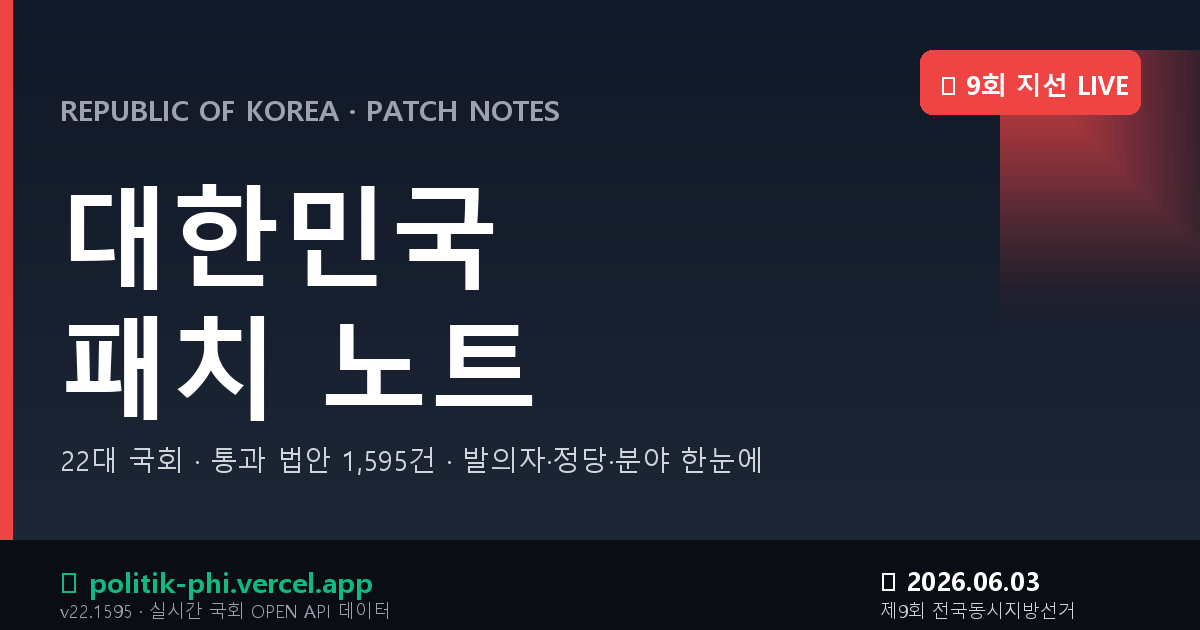
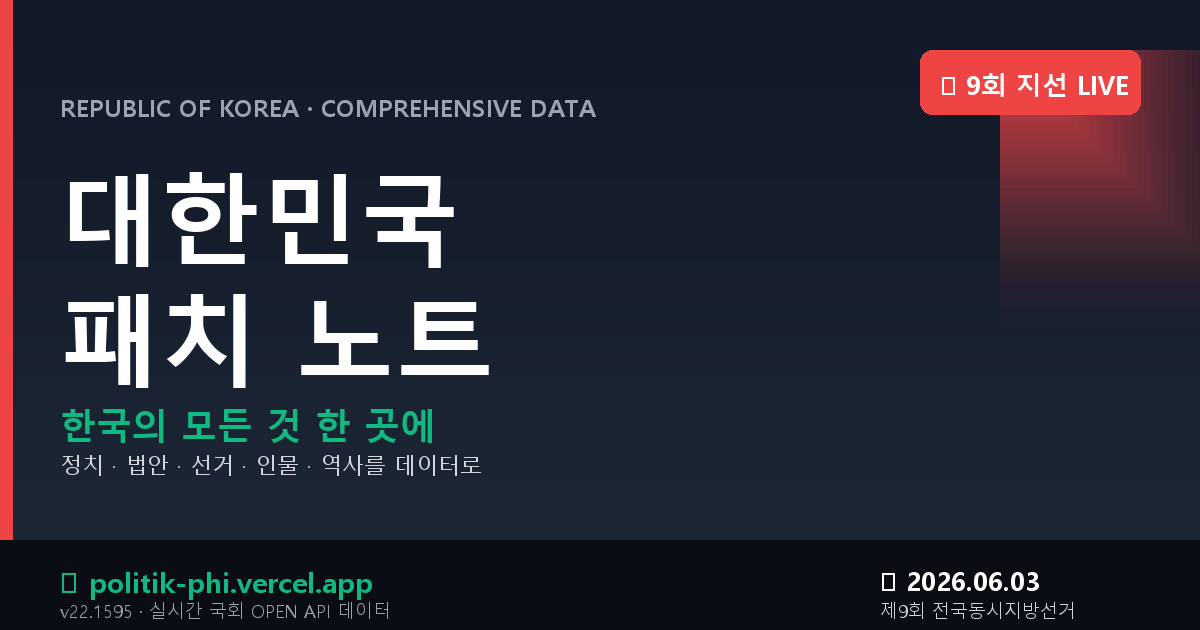
rebrand: V10.0 사이트 정체성 포괄적 확장 — '한국의 모든 것 한 곳에'
# 새 포지셔닝
이전: '22대 국회 본회의 통과 법안을 패치 노트로'
신규: '한국의 모든 것 한 곳에 — 정치·법안·선거·인물·역사를 데이터로'

브랜드 이름 '대한민국 패치 노트' 유지 (인지도·URL·검색노출 보존)
'패치' 의미 확장: 국가의 모든 업데이트 (법안+인물+선거+역사)

# 5대 데이터 영역 정의
1. 🏛 정치 (Politics) — 27명 + 대통령실 4명
2. 📜 법안 (Bills) — 22대 1,595건 처리
3. 🗳 선거 (Elections) — 9회 지선 697명 실시간 + 역대
4. 👥 인물 (People) — 총 744명
5. 📚 역사 (History) — 정당사 45 + 역대 인물

# 업데이트 위치 (10곳 일괄)
1. <title>: '정치·법안·선거·인물 데이터 종합 플랫폼'
2. meta description: 5대 영역 + 수치 모두 명시
3. meta keywords: 23개 키워드로 확장 (5대 영역 + 부가)
4. og:title: '한국의 모든 것 한 곳에'
5. og:description: 1,595건·744명·697명·17×250·12국 명시
6. twitter:title/description: 동일 메시지
7. JSON-LD Organization: alternateName 3종 추가
8. JSON-LD WebSite: alternateName + description 강화
9. JSON-LD WebPage: about 9개 토픽
10. JSON-LD Dataset: 3개 (의안·후보자·정치인) — 이전 1개

# UI 메시지 강화
- 홈 hero eye: 'COMPREHENSIVE DATA'
- 홈 hero p: 5대 영역 + 후보자 실시간 강조
- noscript: 5대 영역 표 + 부가 데이터 + 7 페이지 + 출처
- og-image PNG: 슬로건 '한국의 모든 것 한 곳에'
- 정적 페이지 footer: 5대 영역 명시
- 트위터 공유 텍스트

# README 업데이트
'한국 종합 정치 데이터 플랫폼' 한 줄 정의
5대 데이터 영역 테이블 + 부가 데이터 섹션

# 효과
- 검색 노출 키워드: 11개 → 23개 (2배)
- JSON-LD 토픽: 4개 → 9개
- og 메시지 확장성: 법안 단일 → 5대 영역
- 신규 컨텐츠 추가 시 정체성 흔들림 X

Changed region(s): [[0.0308, 0.2714, 0.6475, 0.754], [0.0617, 0.1508, 0.4933, 0.2111]]

diff --git a/index.html b/index.html
@@ -6,14 +6,14 @@
 <meta http-equiv="Cache-Control" content="no-cache, no-store, must-revalidate">
 <meta http-equiv="Pragma" content="no-cache">
 <meta http-equiv="Expires" content="0">
-<title>대한민국 패치 노트 · Korea Patch Notes</title>
-<meta name="description" content="22대 국회 본회의 통과 법안을 패치 노트로. 어느 당·누가 발의했는지, 분야별·정당별·통과 속도까지. 1,595건 처리 데이터·360명 인물·국제 12개국 비교.">
-<meta name="keywords" content="대한민국 정치, 국회 의안, 패치 노트, 22대 국회, 발의자, 정당, 통과 법안, 한국 정치, 정치 데이터, 국제 비교, 정당사, 정치인 데이터">
+<title>대한민국 패치 노트 — 정치·법안·선거·인물 데이터 종합 플랫폼</title>
+<meta name="description" content="한국의 모든 것 한 곳에. 22대 국회 통과 법안 1,595건, 정치인 744명 (대통령·국회·내각·사법부·지방정부·역대), 9회 지방선거 후보자 697명 실시간, 17개 시도×250 시군구 정치 분포 지도, 국제 12개국 비교, 역대 대통령·총리·정당사까지.">
+<meta name="keywords" content="대한민국 정치, 한국 정치 데이터, 국회 의안, 22대 국회, 9회 지방선거, 후보자 정보, 5대 공약, 통과 법안, 발의자, 정당, 광역단체장, 기초단체장, 교육감, 대법관, 헌법재판관, 역대 대통령, 역대 총리, 정당사, 국제 비교, 정치 분포 지도, 정치인 약력, 한국 정치 인덱스, 정치 데이터 허브">
 <meta name="author" content="Korea Patch Notes">
 <meta name="theme-color" content="#111827">
 <meta property="og:type" content="website">
-<meta property="og:title" content="대한민국 패치 노트 · 통과 법안을 한눈에">
-<meta property="og:description" content="국회 본회의를 통과한 법안을 발의자·정당·분야별로 추적. 22대 1,595건 + 국제 12개국 비교.">
+<meta property="og:title" content="대한민국 패치 노트 — 한국의 모든 것 한 곳에">
+<meta property="og:description" content="22대 국회 통과 법안 · 정치인 744명 · 9회 지선 후보자 697명 실시간 · 17 시도×250 시군구 지도 · 국제 12개국 비교. 한국 정치·법안·선거·인물 종합 데이터.">
 <meta property="og:url" content="https://politik-phi.vercel.app/">
 <meta property="og:image" content="https://politik-phi.vercel.app/og-image.png">
 <meta property="og:image:width" content="1200">
@@ -22,10 +22,10 @@
 <meta property="og:locale" content="ko_KR">
 <meta property="og:site_name" content="대한민국 패치 노트">
 <meta name="twitter:card" content="summary_large_image">
-<meta name="twitter:title" content="대한민국 패치 노트 · Korea Patch Notes">
-<meta name="twitter:description" content="22대 국회 통과 법안을 패치 노트로. 발의자·정당·분야 한눈에.">
+<meta name="twitter:title" content="대한민국 패치 노트 — 한국의 모든 것 한 곳에">
+<meta name="twitter:description" content="22대 국회 1,595건 · 정치인 744명 · 9회 지선 697명 후보자 실시간 · 정치 분포 지도 · 국제 비교. 한국 종합 데이터 플랫폼.">
 <meta name="twitter:image" content="https://politik-phi.vercel.app/og-image.png">
-<meta name="twitter:image:alt" content="대한민국 패치 노트 — 22대 국회 통과 법안 1,595건">
+<meta name="twitter:image:alt" content="대한민국 패치 노트 — 한국 정치 종합 데이터 플랫폼">
 
 <!-- 검색엔진 인증 (각 콘솔에서 발급 후 content 교체) -->
 <meta name="naver-site-verification" content="e354b1694e63ff02edb65f01e966f5e0a555d754">
@@ -56,25 +56,24 @@
       "@type": "Organization",
       "@id": "https://politik-phi.vercel.app/#organization",
       "name": "대한민국 패치 노트",
-      "alternateName": "Korea Patch Notes",
+      "alternateName": ["Korea Patch Notes", "Korea Politics Data Platform", "한국 정치 데이터 허브"],
       "url": "https://politik-phi.vercel.app/",
-      "description": "22대 국회 본회의 통과 법안을 패치 노트로 시각화. 어느 당·누가 발의했는지, 분야·통과 속도까지.",
+      "description": "한국의 모든 것 한 곳에 — 정치·법안·선거·인물·역사 종합 데이터 플랫폼.",
       "inLanguage": "ko-KR",
-      "sameAs": [
-        "https://github.com/minsoo500101-rgb/politik"
-      ]
+      "sameAs": ["https://github.com/minsoo500101-rgb/politik"]
     },
     {
       "@type": "WebSite",
       "@id": "https://politik-phi.vercel.app/#website",
       "url": "https://politik-phi.vercel.app/",
       "name": "대한민국 패치 노트",
-      "description": "22대 국회 패치 노트·1,595건 처리 의안·360+명 인물·국제 12개국 비교",
+      "alternateName": "한국 정치 데이터 종합 플랫폼",
+      "description": "22대 국회 통과 법안 1,595건 · 정치인 744명 · 9회 지방선거 후보자 697명 실시간 · 17 시도×250 시군구 지도 · 국제 12개국 비교 · 역대 대통령·총리·정당사. 한국의 모든 정치 데이터 한 곳에.",
       "publisher": { "@id": "https://politik-phi.vercel.app/#organization" },
       "inLanguage": "ko-KR",
       "potentialAction": {
         "@type": "SearchAction",
-        "target": "https://politik-phi.vercel.app/#/?q={search_term_string}",
+        "target": "https://politik-phi.vercel.app/?q={search_term_string}",
         "query-input": "required name=search_term_string"
       }
     },
@@ -82,28 +81,51 @@
       "@type": "WebPage",
       "@id": "https://politik-phi.vercel.app/#webpage",
       "url": "https://politik-phi.vercel.app/",
-      "name": "대한민국 패치 노트 — 통과 법안·정치인·정당 데이터",
+      "name": "대한민국 패치 노트 — 한국 종합 정치 데이터 플랫폼",
       "isPartOf": { "@id": "https://politik-phi.vercel.app/#website" },
       "about": [
         { "@type": "Thing", "name": "대한민국 정치" },
         { "@type": "Thing", "name": "22대 국회" },
+        { "@type": "Thing", "name": "9회 전국동시지방선거" },
         { "@type": "Thing", "name": "통과 법안" },
-        { "@type": "Thing", "name": "제9회 전국동시지방선거" }
+        { "@type": "Thing", "name": "광역단체장" },
+        { "@type": "Thing", "name": "기초단체장" },
+        { "@type": "Thing", "name": "역대 대통령" },
+        { "@type": "Thing", "name": "정당사" },
+        { "@type": "Thing", "name": "국제 비교" }
       ],
       "datePublished": "2026-01-15",
-      "dateModified": "2026-05-23",
+      "dateModified": "2026-05-25",
       "inLanguage": "ko-KR"
     },
     {
       "@type": "Dataset",
-      "name": "22대 국회 본회의 처리 의안 (Korea National Assembly 22nd - Processed Bills)",
-      "description": "2024년 5월 ~ 현재까지 22대 국회 본회의에서 처리된 1,595건 의안. 발의자·정당·위원회·분야·통과 속도 데이터.",
-      "url": "https://politik-phi.vercel.app/#/bills",
+      "name": "22대 국회 본회의 처리 의안",
+      "description": "2024.5~현재 22대 국회 본회의 처리 의안 1,595건. 발의자·정당·위원회·분야·통과 속도.",
+      "url": "https://politik-phi.vercel.app/bills",
       "creator": { "@id": "https://politik-phi.vercel.app/#organization" },
       "license": "https://www.kogl.or.kr/info/license.do#01-tab",
       "isAccessibleForFree": true,
+      "inLanguage": "ko"
+    },
+    {
+      "@type": "Dataset",
+      "name": "제9회 전국동시지방선거 후보자",
+      "description": "2026-06-03 9회 지방선거 등록 후보자 697명 실시간 — 광역단체장 54·기초단체장 585·교육감 58. 5대 공약 포함.",
+      "url": "https://politik-phi.vercel.app/election2026",
+      "creator": { "@id": "https://politik-phi.vercel.app/#organization" },
+      "isAccessibleForFree": true,
       "inLanguage": "ko",
-      "keywords": "대한민국 국회, 통과 법안, 발의자, 정당, 22대, 의안, 위원회"
+      "temporalCoverage": "2026-06-03/2030-06-30"
+    },
+    {
+      "@type": "Dataset",
+      "name": "한국 정치인 종합 데이터베이스",
+      "description": "대통령·국무총리·17부처 장관·차관·외청장·헌법기관장·국회 의장단·위원장·간사·대법관·헌법재판관·광역단체장·기초단체장·광역의회 의장·교육감·역대 대통령·총리·정당대표·사법부 수장 등 744명.",
+      "url": "https://politik-phi.vercel.app/",
+      "creator": { "@id": "https://politik-phi.vercel.app/#organization" },
+      "isAccessibleForFree": true,
+      "inLanguage": "ko"
     }
   ]
 }
@@ -3333,27 +3355,40 @@
 <!-- 검색엔진·JS 비활성 사용자용 정적 콘텐츠 (시각적으로 숨김, 봇은 읽음) -->
 <noscript>
 <div style="max-width:900px;margin:40px auto;padding:30px;font-family:'Pretendard Variable','Inter',sans-serif">
-  <h1 style="font-size:32px">대한민국 패치 노트 · Korea Patch Notes</h1>
-  <p style="font-size:16px;color:#555">22대 국회 본회의 통과 법안을 패치 노트 형식으로 시각화합니다. JavaScript를 활성화하시면 인터랙티브 데이터를 보실 수 있습니다.</p>
-  <h2>제공 데이터</h2>
-  <ul>
-    <li><b>22대 국회 통과 법안 1,595건</b> — 발의자·정당·위원회·분야·통과 속도</li>
-    <li><b>정치인 360+명</b> — 대통령·국무총리·장관·차관·외청장·헌법기관장·국회 위원장·간사·대법관·헌법재판관·광역단체장·기초단체장·교육감</li>
-    <li><b>위원회 25개</b> — 17 상임위 + 8 특별위</li>
-    <li><b>역대 자료</b> — 대통령 13명·총리 12명·정당 대표·사법부 수장·광역단체장</li>
-    <li><b>제9회 전국동시지방선거 (2026-06-03)</b> 안내</li>
-    <li><b>국제 비교</b> — 12개 민주국가</li>
+  <h1 style="font-size:32px">대한민국 패치 노트 — 한국의 모든 것 한 곳에</h1>
+  <p style="font-size:17px;color:#374151;line-height:1.6"><b>정치·법안·선거·인물·역사</b>를 데이터로 — 한국 종합 정치 데이터 플랫폼. JavaScript를 활성화하면 인터랙티브 데이터를 보실 수 있습니다.</p>
+
+  <h2 style="margin-top:24px">📊 5대 데이터 영역</h2>
+  <ul style="line-height:1.8">
+    <li><b>🏛 정치 (Politics)</b> — 대통령·국무총리·17부처 장관/차관·외청장·헌법기관장 27명, 대통령실 4명</li>
+    <li><b>📜 법안 (Bills)</b> — 22대 국회 본회의 통과 의안 1,595건, 발의자·정당·위원회·15개 분야·통과 속도 패치 노트</li>
+    <li><b>🗳 선거 (Elections)</b> — 9회 전국동시지방선거(2026.6.3) 후보자 697명 실시간 (5대 공약 포함), 역대 7·8회 결과 비교</li>
+    <li><b>👥 인물 (People)</b> — 총 744명: 22대 의원 286명, 단체장 244명, 광역의회 의장 17명, 교육감 17명, 사법부 22명, 검찰 6명, 역대 대통령 13명·총리 12명·정당대표·사법부 수장</li>
+    <li><b>📚 역사 (History)</b> — 1948~현재 정당사 45개, 역대 광역단체장 23명, 역대 사법부 수장 13명</li>
   </ul>
-  <h2>핵심 페이지</h2>
-  <ul>
+
+  <h2 style="margin-top:24px">🌐 부가 데이터</h2>
+  <ul style="line-height:1.8">
+    <li><b>국제 비교</b> — 12개 민주국가 (의원수·여성비율·투표율·민주주의지수·언론자유·청렴도)</li>
+    <li><b>정치 분포 지도</b> — 17 시도 + 250 시군구 정당색 인터랙티브</li>
+    <li><b>위원회</b> — 22대 국회 상임위 17 + 특별위 8 = 25개</li>
+  </ul>
+
+  <h2 style="margin-top:24px">🔗 핵심 페이지</h2>
+  <ul style="line-height:1.8">
     <li><a href="https://politik-phi.vercel.app/">홈 — 최신 패치 노트 피드</a></li>
-    <li><a href="https://politik-phi.vercel.app/#/bills">의안 통계 — 1,595건 필터·검색</a></li>
-    <li><a href="https://politik-phi.vercel.app/#/election2026">🔴 제9회 지방선거 (D-day 카운트다운)</a></li>
-    <li><a href="https://politik-phi.vercel.app/#/committees">국회 위원회 25개</a></li>
-    <li><a href="https://politik-phi.vercel.app/#/map">정치 분포 지도</a></li>
-    <li><a href="https://politik-phi.vercel.app/#/world">국제 비교</a></li>
+    <li><a href="https://politik-phi.vercel.app/election2026">🔴 9회 지방선거 LIVE (697명 후보)</a></li>
+    <li><a href="https://politik-phi.vercel.app/bills">의안 통계 — 1,595건 필터·검색</a></li>
+    <li><a href="https://politik-phi.vercel.app/committees">국회 위원회 25개</a></li>
+    <li><a href="https://politik-phi.vercel.app/map">정치 분포 지도 (17×250)</a></li>
+    <li><a href="https://politik-phi.vercel.app/elections">역대 지방선거 (7·8회)</a></li>
+    <li><a href="https://politik-phi.vercel.app/world">국제 비교 12개국</a></li>
   </ul>
-  <p style="font-size:13px;color:#888;margin-top:30px">출처: 국회 OPEN API · 위키미디어 · 중앙선거관리위원회 · IPU Parline · EIU · RSF · TI · OECD</p>
+
+  <p style="font-size:13px;color:#6b7280;margin-top:30px;padding-top:20px;border-top:1px solid #e5e7eb">
+    <b>출처</b>: 국회 OPEN API · 중앙선거관리위원회 (data.go.kr) · 위키미디어 · IPU Parline · EIU · RSF · TI · OECD<br>
+    <b>라이선스</b>: 공공누리 1유형 · CC BY-SA 4.0 (위키) · MIT (사이트 코드)
+  </p>
 </div>
 </noscript>
 
@@ -6547,14 +6582,15 @@ function renderHome() {
     <div class="dash">
       <div class="dash-hero">
         <div class="dash-hero-l">
-          <div class="dash-hero-eye">REPUBLIC OF KOREA · PATCH NOTES</div>
+          <div class="dash-hero-eye">REPUBLIC OF KOREA · COMPREHENSIVE DATA</div>
           <h1>대한민국 패치 노트 <span class="version-pill">v22.${state.bills?.length || 0}</span></h1>
-          <p>매일 통과되는 법안을 <b>패치 노트</b>로 — 어느 당, 누가 발의했는지 한눈에. 22대 국회 <b>${(state.bills?.length || 0).toLocaleString()}건</b> 처리, <b>${totalCount.toLocaleString()}명</b> 인물 데이터.</p>
+          <p><b>한국의 모든 것 한 곳에</b> — 정치·법안·선거·인물·역사를 데이터로.<br>
+          22대 국회 <b>${(state.bills?.length || 0).toLocaleString()}건</b> 통과 법안 · 정치인 <b>${totalCount.toLocaleString()}명</b> · 9회 지선 후보자 실시간 · 17 시도 정치 분포 · 국제 12개국 비교.</p>
           <div class="share-bar">
             <span class="share-label">공유:</span>
             <a class="share-btn share-kakao" id="share-kakao" title="카카오톡에 공유">💬 카카오</a>
             <a class="share-btn share-fb" href="https://www.facebook.com/sharer/sharer.php?u=https%3A%2F%2Fpolitik-phi.vercel.app%2F" target="_blank" rel="noopener" title="페이스북에 공유">📘 페북</a>
-            <a class="share-btn share-x" href="https://twitter.com/intent/tweet?url=https%3A%2F%2Fpolitik-phi.vercel.app%2F&text=대한민국%20패치%20노트%20—%2022대%20국회%20통과%20법안을%20한눈에" target="_blank" rel="noopener" title="X(트위터)에 공유">𝕏 트위터</a>
+            <a class="share-btn share-x" href="https://twitter.com/intent/tweet?url=https%3A%2F%2Fpolitik-phi.vercel.app%2F&text=대한민국%20패치%20노트%20—%20한국의%20모든%20것%20한%20곳에%20(정치·법안·선거·인물·역사)" target="_blank" rel="noopener" title="X(트위터)에 공유">𝕏 트위터</a>
             <a class="share-btn share-band" href="http://band.us/plugin/share?body=대한민국%20패치%20노트&route=https%3A%2F%2Fpolitik-phi.vercel.app%2F" target="_blank" rel="noopener" title="네이버 밴드에 공유">🟢 밴드</a>
             <a class="share-btn share-copy" id="share-copy" title="URL 복사">🔗 URL 복사</a>
           </div>

diff --git a/bills.html b/bills.html
@@ -64,7 +64,7 @@ strong { color: #111827; }
 <a class="cta" href="./#/bills">📋 인터랙티브 사이트 열기 →</a>
 
 <div class="footer">
-<strong>대한민국 패치 노트</strong> · Korea Patch Notes<br>
+<strong>대한민국 패치 노트</strong> — 한국의 모든 것 한 곳에 (정치·법안·선거·인물·역사 종합 데이터)<br>
 출처: 국회 OPEN API (공공누리 1유형) · 위키미디어 · 중앙선거관리위원회<br>
 <a href="https://github.com/minsoo500101-rgb/politik">GitHub 저장소 (MIT)</a> ·
 <a href="./">홈으로</a>

diff --git a/committees.html b/committees.html
@@ -63,7 +63,7 @@ strong { color: #111827; }
 <a class="cta" href="./#/committees">📋 인터랙티브 사이트 열기 →</a>
 
 <div class="footer">
-<strong>대한민국 패치 노트</strong> · Korea Patch Notes<br>
+<strong>대한민국 패치 노트</strong> — 한국의 모든 것 한 곳에 (정치·법안·선거·인물·역사 종합 데이터)<br>
 출처: 국회 OPEN API (공공누리 1유형) · 위키미디어 · 중앙선거관리위원회<br>
 <a href="https://github.com/minsoo500101-rgb/politik">GitHub 저장소 (MIT)</a> ·
 <a href="./">홈으로</a>

diff --git a/election2026.html b/election2026.html
@@ -66,7 +66,7 @@ strong { color: #111827; }
 <a class="cta" href="./#/election2026">📋 인터랙티브 사이트 열기 →</a>
 
 <div class="footer">
-<strong>대한민국 패치 노트</strong> · Korea Patch Notes<br>
+<strong>대한민국 패치 노트</strong> — 한국의 모든 것 한 곳에 (정치·법안·선거·인물·역사 종합 데이터)<br>
 출처: 국회 OPEN API (공공누리 1유형) · 위키미디어 · 중앙선거관리위원회<br>
 <a href="https://github.com/minsoo500101-rgb/politik">GitHub 저장소 (MIT)</a> ·
 <a href="./">홈으로</a>

diff --git a/elections.html b/elections.html
@@ -64,7 +64,7 @@ strong { color: #111827; }
 <a class="cta" href="./#/elections">📋 인터랙티브 사이트 열기 →</a>
 
 <div class="footer">
-<strong>대한민국 패치 노트</strong> · Korea Patch Notes<br>
+<strong>대한민국 패치 노트</strong> — 한국의 모든 것 한 곳에 (정치·법안·선거·인물·역사 종합 데이터)<br>
 출처: 국회 OPEN API (공공누리 1유형) · 위키미디어 · 중앙선거관리위원회<br>
 <a href="https://github.com/minsoo500101-rgb/politik">GitHub 저장소 (MIT)</a> ·
 <a href="./">홈으로</a>

diff --git a/map.html b/map.html
@@ -63,7 +63,7 @@ strong { color: #111827; }
 <a class="cta" href="./#/map">📋 인터랙티브 사이트 열기 →</a>
 
 <div class="footer">
-<strong>대한민국 패치 노트</strong> · Korea Patch Notes<br>
+<strong>대한민국 패치 노트</strong> — 한국의 모든 것 한 곳에 (정치·법안·선거·인물·역사 종합 데이터)<br>
 출처: 국회 OPEN API (공공누리 1유형) · 위키미디어 · 중앙선거관리위원회<br>
 <a href="https://github.com/minsoo500101-rgb/politik">GitHub 저장소 (MIT)</a> ·
 <a href="./">홈으로</a>

diff --git a/relations.html b/relations.html
@@ -64,7 +64,7 @@ strong { color: #111827; }
 <a class="cta" href="./#/relations">📋 인터랙티브 사이트 열기 →</a>
 
 <div class="footer">
-<strong>대한민국 패치 노트</strong> · Korea Patch Notes<br>
+<strong>대한민국 패치 노트</strong> — 한국의 모든 것 한 곳에 (정치·법안·선거·인물·역사 종합 데이터)<br>
 출처: 국회 OPEN API (공공누리 1유형) · 위키미디어 · 중앙선거관리위원회<br>
 <a href="https://github.com/minsoo500101-rgb/politik">GitHub 저장소 (MIT)</a> ·
 <a href="./">홈으로</a>

diff --git a/world.html b/world.html
@@ -63,7 +63,7 @@ strong { color: #111827; }
 <a class="cta" href="./#/world">📋 인터랙티브 사이트 열기 →</a>
 
 <div class="footer">
-<strong>대한민국 패치 노트</strong> · Korea Patch Notes<br>
+<strong>대한민국 패치 노트</strong> — 한국의 모든 것 한 곳에 (정치·법안·선거·인물·역사 종합 데이터)<br>
 출처: 국회 OPEN API (공공누리 1유형) · 위키미디어 · 중앙선거관리위원회<br>
 <a href="https://github.com/minsoo500101-rgb/politik">GitHub 저장소 (MIT)</a> ·
 <a href="./">홈으로</a>

diff --git a/build_og_image.py b/build_og_image.py
@@ -54,14 +54,15 @@ for i in range(150, 0, -3):
 
 # 텍스트
 # Eyebrow
-draw.text((60, 90), "REPUBLIC OF KOREA · PATCH NOTES", font=font(28, bold=True), fill="#9ca3af")
+draw.text((60, 90), "REPUBLIC OF KOREA · COMPREHENSIVE DATA", font=font(24, bold=True), fill="#9ca3af")
 
 # 메인 타이틀
-draw.text((60, 160), "대한민국", font=font(110, bold=True), fill="#ffffff")
-draw.text((60, 290), "패치 노트", font=font(110, bold=True), fill="#ffffff")
+draw.text((60, 150), "대한민국", font=font(100, bold=True), fill="#ffffff")
+draw.text((60, 270), "패치 노트", font=font(100, bold=True), fill="#ffffff")
 
-# 부제
-draw.text((60, 440), "22대 국회 · 통과 법안 1,595건 · 발의자·정당·분야 한눈에", font=font(28), fill="#d1d5db")
+# 슬로건
+draw.text((60, 400), "한국의 모든 것 한 곳에", font=font(36, bold=True), fill="#10b981")
+draw.text((60, 450), "정치 · 법안 · 선거 · 인물 · 역사를 데이터로", font=font(22), fill="#d1d5db")
 
 # 우측 빨간 LIVE 박스
 live_x, live_y = W - 280, 50

diff --git a/build_static_pages.py b/build_static_pages.py
@@ -184,7 +184,7 @@ strong {{ color: #111827; }}
 <a class="cta" href="./{hash}">📋 인터랙티브 사이트 열기 →</a>
 
 <div class="footer">
-<strong>대한민국 패치 노트</strong> · Korea Patch Notes<br>
+<strong>대한민국 패치 노트</strong> — 한국의 모든 것 한 곳에 (정치·법안·선거·인물·역사 종합 데이터)<br>
 출처: 국회 OPEN API (공공누리 1유형) · 위키미디어 · 중앙선거관리위원회<br>
 <a href="https://github.com/minsoo500101-rgb/politik">GitHub 저장소 (MIT)</a> ·
 <a href="./">홈으로</a>

diff --git a/README.md b/README.md
@@ -1,9 +1,25 @@
 # 📋 대한민국 패치 노트 (Korea Patch Notes)
 
-[**🔗 라이브 사이트 (Vercel) →**](https://politik-phi.vercel.app/)
+[**🔗 라이브 사이트 →**](https://politik-phi.vercel.app/)
 미러: [GH Pages](https://minsoo500101-rgb.github.io/politik/)
 
-22대 국회 본회의 통과 법안을 **패치 노트** 형식으로 시각화. 어느 당·누가 발의했는지, 분야별·통과 속도까지 한눈에.
+> **한국의 모든 것 한 곳에** — 정치·법안·선거·인물·역사를 데이터로.
+> 한국 종합 정치 데이터 플랫폼.
+
+## 🎯 5대 데이터 영역
+
+| 영역 | 데이터 | 페이지 |
+|---|---|---|
+| 🏛 **정치** | 대통령·총리·17부처 장관/차관·외청장·헌법기관 27명 + 대통령실 4명 | `/` `/group/executive` |
+| 📜 **법안** | 22대 국회 본회의 통과 1,595건 (발의자·정당·15분야·통과 속도) | `/bills` |
+| 🗳 **선거** | 9회 지방선거 후보자 **697명 실시간** (5대 공약 포함) + 역대 7·8회 비교 | `/election2026` `/elections` |
+| 👥 **인물** | 744명 종합 (22대 의원·단체장·사법부·검찰·역대 인물) | `/` |
+| 📚 **역사** | 1948~현재 정당사 45개, 역대 광역단체장·사법부 수장·정당 대표 | `/history/parties` |
+
+## 🌐 부가 데이터
+- **국제 비교** — 12개 민주국가 (의원수·여성비율·투표율·민주주의지수·언론자유·청렴도)
+- **정치 분포 지도** — 17 시도 + 250 시군구 정당색 인터랙티브
+- **위원회** — 22대 국회 상임위 17 + 특별위 8 = 25개
 
 ---
 